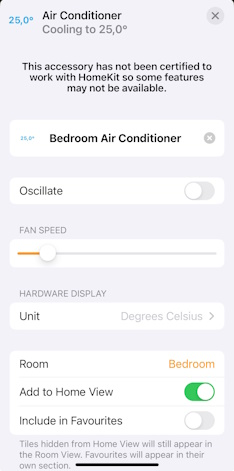
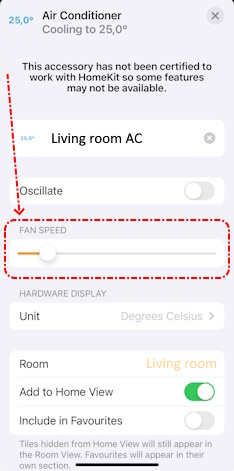
Document features of version 2.2.0

diff --git a/README.md b/README.md
@@ -13,19 +13,21 @@
 
 [Homebridge GREE Air Conditioner Platform Plugin](https://github.com/eibenp/homebridge-gree-airconditioner) is a dynamic platform plugin for [Homebridge](https://github.com/homebridge/homebridge) which allows control of GREE Air Conditioner devices from [Apple's Home App](https://www.apple.com/home-app/). (Makes GREE Air Conditioners HomeKit compatible.)
 
-The plugin finds and adds all GREE Air Conditioner devices to the Home App automatically if they are located on the same subnet as Homebridge. In most cases only a minimal configuration is required. If default configuration is not appropriate the parameters can be customized. To customize a device you have to specify it's MAC address. Each device appears in the Home App as a Heater Cooler device. It is also possible to add a separate Temperature Sensor (if temperature sensor is supported by the physical device). This allows to define automations (e.g. turn on) based on current temperature in the room. _Be careful, if the device does not support internal temperature sensor but is added as a separate accessory, Home App will use the target temperature not the measured one._ Child accessory does not appear in Home App if physical sensor is not available in the AC unit.
+The plugin finds and adds all GREE Air Conditioner devices to the Home App automatically if they are located on the same subnet as Homebridge. In most cases only a minimal configuration is required. If default configuration is not appropriate, then the parameters can be customized. To set some parameters to a custom value assigned to all devices, a special device has to be added to the configuration with MAC address set to 'default'. To customize a specific device you have to specify it's MAC address. Device specific parameters override the default parameters. Each Air Conditioner device appears in the Home App as a Heater Cooler device (and a Fan device if fan control is enabled). It is also possible to add a separate Temperature Sensor accessory to Home App (if temperature sensor is supported by the physical device). This allows to define automations (e.g. turn on) based on current temperature in the room. _Be careful, if the device does not support internal temperature sensor but is added as a separate accessory, Home App will use the target temperature not the measured one._ Child accessory does not appear in Home App if physical sensor is not available in the AC unit.
 
-Quiet / Auto / Powerful mode is supported by the fan speed control. Zero means off. Minimum value turns on Quiet mode. Next value is Auto mode. Maximum value is Powerful mode. All other values between them are exact fan speeds (Low, MediumLow**, Medium, MediumHigh**, High)
+Quiet / Auto / Powerful mode is supported by the fan speed control. In Heater Cooler accessory zero fan speed means off. Minimum value turns on Quiet mode. Next value is Auto mode. Maximum value is Powerful mode. All other values between them are exact fan speeds (Low, MediumLow**, Medium, MediumHigh**, High) Quiet and Powerful modes are unsupported in Auto mode. If these speed modes are selected in Home App then the device will fix the incorrect settings and the Home App's speed control will be automatically adjusted to the nearest supported value.
+
+Optional fan accessory has it's own speed control. It displays fan speed as a percentage value, but the percentage displayed in the Home App is not related to the actual fan speed percentage of the AC device. (GREE Air Conditioners do not support controlling the fan speed by percentage.) Fan accessory's zero fan speed means off. Quiet mode and Powerful mode are not supported by Air Conditioner devices in fan mode. Fan accessory's maximum value (100%) means Auto mode. All other values between 0% and 100% are exact fan speeds (Low, MediumLow**, Medium, MediumHigh**, High). The actual percentage values of the Home App fan accessory is based on the AC device type (3- or 5-speed model).
 
 (**) these values are supported only on 5-speed models
 
-Devices are identified by MAC Address (Serial Number). It can be queried using the official [GREE+ mobile app](https://apps.apple.com/us/app/gree/id1167857672). (The app is required to connect the devices to the local WiFi network for the first time.) If you want to customize a device (e.g. set a custom name) then you have to add it to the configuration and specify it's MAC address. Adding a device located on a different subnet also requires to add the device to the configuration and specify the MAC address and the IP address. To skip a device from Home App also requires to add it's MAC address to the configuration and set the "disabled" parameter to true. Some parameters are changeable only by disabling and re-enabling the device because they are read by Home App only once. _(These parameters are discussed later.)_
+Devices are identified by MAC Address (Serial Number). It can be queried using the official [GREE+ mobile app](https://apps.apple.com/us/app/gree/id1167857672). (The app is required to connect the devices to the local WiFi network for the first time.) If you want to customize a device (e.g. set a custom name) then you have to add it to the configuration and specify it's MAC address. Adding a device located on a different subnet also requires to add the device to the configuration and specify the MAC address and the IP address. To skip a device from Home App also requires to add it's MAC address to the configuration and set the "disabled" parameter to true. Some parameters are changeable only by disabling and re-enabling the device because they are read by Home App only once. _(These parameters are discussed later.)_ To customize all devices on the same way, a special device has to be added to the configuration. This special device must have the MAC address parameter set to "default". Parameters of devices identified by exact MAC addresses take precedence over parameters set by the "default" device.
 
 xFan function is supported, but it works automatically if enabled in Homebridge configuration. If xFan is enabled for the device, it is automatically turned on when you select a supported operating mode in Home App. If xFan is disabled, the Home App will not modify its actual setting in any case.
 
 Temperature display units of the physical device can be controlled using the Home App. (Configuration settings are required to be specified always in Degrees Celsius, independently from the display units.)
 
-Vertical swing mode can be turned on/off, but special swing settings can't be controlled using the Home App. If device default vertical swing position is not acceptable in disabled swing mode, it can be overridden to a pre selected position by configuration settings. (Only default position is overridden when this feature is enabled. Other positions selected by remote control are kept and not modified by Home App. The AC unit may keep the actual vertical swing position on turning off oscillation in Home App.)
+Vertical swing mode can be turned on/off, but special swing settings can't be controlled using the Home App. If device default vertical swing position is not acceptable when oscillation is disabled, it can be overridden to a pre selected position by configuration settings. (Only default position is overridden when this feature is enabled. Other positions selected by remote control are kept and not modified by Home App.)
 
 This plugin is designed to be as simple and clear as possible and supports primarily the functions of the Home App's Heater Cooler accessory.
 
@@ -46,16 +48,19 @@ This is not plugin dependency but its good to know that Homebridge server host a
 * May work with other GREE compatible AC units (e.g. Sinclair)
     * Successfully tested with Sinclair SIH-13BITW
  
-> If you get _"error:1C80006B:Provider routines::wrong final block length"_ error message then your device is not supported.
+> If you get _"error:1C80006B:Provider routines::wrong final block length"_ error message then your device is not supported or incorrect encryption version is selected.
 >
 > If you get _"Error: Device is not bound ..."_ error message then your device may not be supported. (The same error occures when device is malfunctioning but if turning the power supply off and on does not solve the problem then your device is not supported.)
+
+It is not recommended to use Home App and the Official GREE+ or Ewpe Smart mobile apps side by side. In some cases the mobile apps can set the Air Conditioner device into a restricted state where Homebridge can't bind the plugin to the device because the device does not respond on device query requests which are required to initalize the plugin. It is highly recommended to use the mobile app only for the initial setup of the air conditioner, and later it is fine to use only the Home App and the physical remote control for everyday tasks. (Usually when the AC device is not responding to the Homebridge plugin but is communicating fine with the mobile app, then power cycling the AC device resolves the problem.)
 
 By default this plugin tries to auto detect the network protocol encryption version. If not the right version is selected there can get errors and the AC device will not correctly work. It is possible to force a network protocol encryption version in configuration file. If auto detection does not work then it is recommended to try all possible values to check if the device is compatible or not.
 
 ## Known limitations
 
 This plugin was designed to support the Home App's Heater Cooler functionality using GREE Air Conditioners. Some special features of GREE AC's are not supported natively by Apple and also dismiss support in this plugin.
-* Fan and dry modes are not supported. They may work if set directly on the device until you change operating mode. They can't be turned on using Home App.
+* Fan mode is supported by an additional Fan control accessory in Home App. Using this Fan control is optional. If Fan control is disabled, the Home App sees the AC device operating in fan mode as off. The Heater Cooler accessory and the Fan accessory cannot be active at the same time. The Heater Cooler accessory is always inactive if the AC device is operating in fan mode, and the Fan accessory is always inactive if the AC device is operating in heating or cooling mode.
+* Dry mode is not supported. The Home App sees the AC device operating in dry mode as off.
 * Lights of the AC unit can't be controlled.
 * Additional device functions (e.g. health mode, sleep, SE) are not supported.
 * Horizontal swing control is not supported, it remains the same as set directly on the device.
@@ -72,17 +77,20 @@ Command line install:
 ```
 npm install homebridge-gree-ac -g
 ```
-If successfully installed and configured, your devices will appear on the Homebridge GUI Accessories page and also in Home App (if Homebridge is already connected to the Home App). (If the additional temperature sensor is enabled, then 2 items will be displayed for supported devices (Heater Cooler and Temperature Sensor).)
+If successfully installed and configured, your devices will appear on the Homebridge GUI Accessories page and also in Home App (if Homebridge is already connected to the Home App). (If the additional temperature sensor is enabled, then 2 items will be displayed for supported devices (Heater Cooler and Temperature Sensor). If Fan control is enabled, then an additional Fan accessory is also displayed in Home App.)
 
 ## Upgrade
 
 Always check out your current settings in Homebridge and also in Home App (including scenes and automation rules) before you start an upgrade!
 
-### Any version to v2.1.7
+### Any version to v2.1.7 - v2.2.0
 
-The upgrade is automatic by installing the latest version. If upgrading from v2.1.6 no configuration changes are needed. Please see the following upgrade sections if upgrading from an earlier version.
+The upgrade is automatic by installing the latest version. If upgrading from v2.1.6 or later no configuration changes are needed to continue the use of the plugin with original settings. Please see the following upgrade sections if upgrading from an earlier version.
 
-**Important change: All devices are automatically added to Home App if they are not listed and disabled in configuration and they are located on the same subnet.** Earlier versions skipped the devices which were not found in configuration file.
+Fan mode support is new in version v2.2.0. It is disabled by default. To enable it the "fanControlEnabled" parameter must be set in configuration file.
+In v2.2.0 it is also possible to set default customized parameters for multiple devices by adding a special device with MAC address set to 'default'. To use this feature it is required to update the plugin's configuration.
+
+**Important change: All devices are automatically added to the Home App if they are not listed and disabled in configuration and they are located on the same subnet.** Earlier versions skipped the devices which were not found in configuration file.
 
 ### v2.1.2 - v2.1.5 to v2.1.6
 
@@ -151,6 +159,8 @@ The upgrade is automatic by installing the latest version but configuration sett
   - Restart Homebridge
   - If any device was disabled and re-enabled in previous steps then recreate automations _(automations are lost when you disable a device)_
 
+Some new parameters were introduced in version v2.2.0. They have to be added to configuration if the new features should be turned on.
+
 ### v1.x.x to v2.0.0 or later
 
 There is no clean way to update the plugin to release v2.0.0 or later if you are using an older version (v1.x.x). You need to remove and reinstall the plugin during upgrade.
@@ -183,11 +193,57 @@ Minimal configuration requires no special knowledge and uses default values for 
 * name - Unique name of the platform plugin
 * platform - **GREEAirConditioner** (fixed name, it identifies the plugin)
 
-Minimal configuration is appropriate for 5-speed models. Device names are read from the AC units (usually the MAC address or part of the MAC address). Target temperature can be set between 16 and 30 °C. The temperature display units settings are read from the UI settings (or using Fahrenheit if not set in UI configuration). Target temperature step size is set to 0.5 in Fahrenheit mode and 1 in Celsius mode. xFan function is enabled. No other special features (e.g. additional temperature sensor) are enabled.
+Minimal configuration is appropriate for 5-speed models. Device names are read from the AC units (usually the MAC address or part of the MAC address). Target temperature can be set between 16 and 30 °C. The temperature display units settings are read from the UI settings (or using Fahrenheit if not set in UI configuration). Target temperature step size is set to 0.5 in Fahrenheit mode and 1 in Celsius mode. xFan function is enabled. No other special features (e.g. additional temperature sensor, fan mode support) are enabled.
 
 Minimal configuration:
 
 ![Homebridge UI](./uiconfigmin.jpg)
+
+### Customized default parameters
+
+It is possible to set some or all parameters to a customized value which is assigned to each device which does not override the parameter. This functionality requires a custom device with MAC address set to 'default'.
+
+```
+    "platforms": [
+        {
+            "name": "Gree Air Conditioner",
+            "platform": "GREEAirConditioner",
+            "devices": [
+                {
+                    "mac": "default",
+                    "statusUpdateInterval": 10,
+                    "encryptionVersion": 0,
+                    "model": "Pulse 3.2kW GWH12AGB-K6DNA1A/I",
+                    "speedSteps": 5,
+                    "minimumTargetTemperature": 16,
+                    "maximumTargetTemperature": 30,
+                    "sensorOffset": 40,
+                    "temperatureStepSize": 1,
+                    "temperatureSensor": "disabled",
+                    "xFanEnabled": true,
+                    "overrideDefaultVerticalSwing": 0,
+                    "defaultVerticalSwing": 0,
+                    "fanControlEnabled": false,
+                    "disabled": false
+                }
+            ]
+        }
+    ]
+```
+
+* mac - this parameter has a special fixed value 'default' if you want to customize parameters to be assigned to multiple devices
+* disabled - if set to 'true' then no parameters are read from the configuration as customized defaults
+
+See the [Full configuration section](#full-configuration) for more information about the parameters!
+
+The following parameters are ignored in 'default' device entry:
+- name
+- ip
+- port
+
+![Homebridge UI](./uiconfigcustdef.jpg)
+
+You can always override any default parameter by adding a device identified by MAC address.
 
 ### Full configuration
 
@@ -216,6 +272,7 @@ Minimal configuration:
                     "xFanEnabled": true,
                     "overrideDefaultVerticalSwing": 0,
                     "defaultVerticalSwing": 0,
+                    "fanControlEnabled": false,
                     "disabled": false
                 }
             ]
@@ -224,30 +281,31 @@ Minimal configuration:
 ```
 _It's not recommended to add the port and ip parameters. The above example contains them but only for showing all optional parameters also._
 
-* name - Unique name of the platform plugin
-* platform - **GREEAirConditioner** (fixed name, it identifies the plugin)
-* port - free UDP port (optional) (plugin will use this port for network communication; valid values: 1025 - 65535) **Do not specify a port unless you have trouble with automatic port assignment!**
-* scanInterval - time period in seconds between device query retries (defaults to 60 sec if missing)
-* devices - devices should be listed in this block (specify as many devices as you want to customize or disable)
-  * mac - MAC address (Serial Number) of the device (required to identify the device, also if only one device exists)
-  * name* - custom name of the device (optional) Please use only alphanumeric, space, and apostrophe characters. Ensure it starts and ends with an alphabetic or numeric character, and avoid emojis. (The name is changeable in Home App and any changes made in Home App are kept until the device is disabled which removes it from Home App.)
-  * ip - device IP address (optional) Address is auto detected if this parameter is missing. **Specify only if device is located on a different subnet then homebridge!**
-  * port - free UDP port (optional) (plugin will listen on this port for data received from the device; valid values: 1025 - 65535) **Do not specify a port unless you have trouble with automatic port assignment!**
-  * statusUpdateInterval - device status will be refreshed based on this interval (in seconds, default is 10 seconds)
-  * encryptionVersion - Auto (0) is fine for most AC units. If auto does not work then you can force v1 (1) or v2 (2) encryption version to use in network communication
-  * model* - model name, information only (optional)
-  * speedSteps* - fan speed steps of the unit (valid values are: 3 and 5)
-  * minimumTargetTemperature* - minimum target temperature accepted by the device (default is 16 °C, must be specified in °C, valid values: 8-30, values less than 16 work only in heating mode and on selected models only)
-  * maximumTargetTemperature* - maximum target temperature accepted by the device (default is 30 °C, must be specified in °C, valid values: 8-30, values less than 16 work only in heating mode and on selected models only)
-  * sensorOffset - device temperature sensor offset value for current temperature calibration (default is 40 °C, must be specified in °C)
-  * temperatureStepSize* - numeric parameter, valid values: 0.5 and 1 (if missing then default value is based on the UI configuration: 0.5 if UI is set to Fahrenheit temperature units and 1 if UI is set to Celsius temperature units) Controls the acceptable temperature values in Home App (It is recommended to set it to 1 if Celsius display mode is used on the AC unit and 0.5 in Fahrenheit display mode.)
-  * temperatureSensor - controls additional temperature sensor accessory in Home App (disabled = do not add to Home App / child = add as a child accessory / separate = add as a separate (independent) accessory)
-  * xFanEnabled - automatically turn on xFan functionality in supported device modes (xFan actual setting is not modified by the Home App if disabled)
-  * overrideDefaultVerticalSwing - by default this plugin does not change the vertical swing position of the AC unit but some devices do not keep the original vertical position set by the remote control if controlled from Homebridge and return back to device default position; this setting allows to override the default position -> if AC unit is set to default vertical swing position Homebridge modifies it to a predefined position (set by defaultVerticalSwing) (Never (0) = turn off override, let device use default / After power on (1) = override default position on each power on / After power on and swing disable (2) = override default position on each power on and each time when swing is switched to disabled)
-  * defaultVerticalSwing - specify the vertical swing position to be used instead of device default when overriding is enabled (Device default (0) = use device default, same position as used by device by default without overriding / one of the following 5 positions: fixed Highest (2), fixed Higher (3), fixed Middle (4), fixed Lower (5), fixed Lowest (6))
-  * disabled - set to true if you do not want to control this device in the Home App _(can be used also to temporarily remove the device from Home App but not if the device is not responding any more on the network)_
+* **name** - Unique name of the platform plugin
+* **platform** - **GREEAirConditioner** (fixed name, it identifies the plugin)
+* **port** - free UDP port (optional) (plugin will use this port for network communication; valid values: 1025 - 65535) **Do not specify a port unless you have trouble with automatic port assignment!**
+* **scanInterval** - time period in seconds between device query retries (defaults to 60 sec if missing)
+* **devices** - devices should be listed in this block (specify as many devices as you want to customize or disable)
+  * **mac** - MAC address (Serial Number) of the device (required to identify the device, also if only one device exists) Use the 'default' keyword instead of the MAC address to define default configuration for multiple devices. **Must be unique across all devices!**
+  * **name*** - custom name of the device (optional) Please use only alphanumeric, space, and apostrophe characters. Ensure it starts and ends with an alphabetic or numeric character, and avoid emojis. (The name is changeable in Home App and any changes made in Home App are kept until the device is disabled which removes it from Home App.)
+  * **ip** - device IP address (optional) Address is auto detected if this parameter is missing. **Specify only if device is located on a different subnet than homebridge!**
+  * **port** - free UDP port (optional) (plugin will listen on this port for data received from the device; valid values: 1025 - 65535) **Do not specify a port unless you have trouble with automatic port assignment!**
+  * **statusUpdateInterval** - device status will be refreshed based on this interval (in seconds, default is 10 seconds)
+  * **encryptionVersion** - Auto (0) is fine for most AC units. If auto does not work then you can force v1 (1) or v2 (2) encryption version to use in network communication
+  * **model*** - model name, information only (optional)
+  * **speedSteps*** - fan speed steps of the unit (valid values are: 3 and 5)
+  * **minimumTargetTemperature*** - minimum target temperature accepted by the device (default is 16 °C, must be specified in °C, valid values: 8-30, values less than 16 work only in heating mode and on selected models only)
+  * **maximumTargetTemperature*** - maximum target temperature accepted by the device (default is 30 °C, must be specified in °C, valid values: 8-30, values less than 16 work only in heating mode and on selected models only)
+  * **sensorOffset** - device temperature sensor offset value for current temperature calibration (default is 40 °C, must be specified in °C)
+  * **temperatureStepSize*** - numeric parameter, valid values: 0.5 and 1 (if missing then default value is based on the UI configuration: 0.5 if UI is set to Fahrenheit temperature units and 1 if UI is set to Celsius temperature units) Controls the acceptable temperature values in Home App (It is recommended to set it to 1 if Celsius display mode is used on the AC unit and 0.5 in Fahrenheit display mode.)
+  * **temperatureSensor** - controls additional temperature sensor accessory in Home App (disabled = do not add to Home App / child = add as a child accessory / separate = add as a separate (independent) accessory) _Only independent accessories can be used by automations to control other accessories._
+  * **xFanEnabled** - automatically turn on xFan functionality in supported device modes (xFan actual setting is not modified by the Home App if disabled)
+  * **overrideDefaultVerticalSwing** - by default this plugin sets the vertical swing position to the default position of the AC device when oscillation is turned off; this parameter allows the plugin to override the default position (the actual position is controlled by the "defaultVerticalSwing" parameter); valid values: Never (0) = turn off override, let device use default / After power on (1) = override the default position each time the device is powered on / After power on and swing disable (2) = override the default position each time the device is powered on and when oscillation is turned off (by the Home App)
+  * **defaultVerticalSwing** - specify the vertical swing position to be used instead of device default when overriding is enabled (Device default (0) = use device default, same position as used by device by default without overriding / one of the following 5 positions: fixed Highest (2), fixed Higher (3), fixed Middle (4), fixed Lower (5), fixed Lowest (6)) _(Only the default position is changing to the selected one when turning on the device. All other positions are kept by the Home App. Turning off oscillation sets the selected fixed position.)_
+  * **fanControlEnabled** - by default fan mode is not supported by the plugin because Apple's Heater Cooler accessory does not support fan mode; setting this parameter to true adds an additional Fan accessory to the Home App and turns on fan mode support in the plugin
+  * **disabled** - set to true if you do not want to control this device in the Home App _(can be used also to temporarily remove the device from Home App but not if the device is not responding on the network any more)_
 
-(*) these parameters are initalized only once on device enable; device must be disabled an re-enabled to apply a new value
+(*) these parameters are initalized only once on device enable; device must be disabled an re-enabled to apply a new value; name is customizable in Home App independently from Homebridge settings
 
 Recommended customized configuration:
 
@@ -270,12 +328,18 @@ If you are not familiar with the GREE+ mobile app there is an alternative method
 - (Re)start Homebridge
 - GREE Air Conditioner Platform Plugin will auto detect all accessible devices and write an entry to the log
 
-Unfortunaltely if you have multiple devices you will not know which MAC address belongs to which AC unit. In this case you have to test it. This may require some adding - removal - re-adding cycle before final configuration if default configuration is not appropriate.
+E.g.:
+
+> [2025. 01. 05. 22:48:52] [Gree Air Conditioner] [c6000000 -- 192.168.1.2] Device is bound -> 502cc6000000
+
+The MAC address is visible at the end of the "Device is bound" entry. 502cc6000000 in the above example.
+
+Unfortunaltely if you have multiple devices you will not know which MAC address belongs to which AC unit. In this case you have to test it. This may require some adding - removal - re-adding cycle before final configuration if default or customized default configuration is not appropriate.
 
 ### Device settings
 
 Some settings are initialized by Home App only once (when enabling the device). They can only be changed by disabling and re-enabling the device. The following settings are affected:
-* name
+* name*
 * model
 * speedSteps
 * minimumTargetTemperature
@@ -284,13 +348,15 @@ Some settings are initialized by Home App only once (when enabling the device). 
 
 Changes of the above parameters are ignored until the device is disabled and re-enabled.
 
+(*) name can be customized and changed in Home App any time independently from Homebridge settings
+
 All other settings are applied when starting up Homebridge. You have to restart Homebridge to apply changes in configuration settings.
 
-__Keep in mind that disabling the device breaks all associated automations in Home App.__
+_Keep in mind that disabling the device breaks all associated automations in Home App._
 
 ### IP address
 
-IP addresses of the AC units are determined automatically by the plugin. However this auto detection works only if the AC unit is on the same subnet as homebridge. There is an optional IP address parameter which can be used to specifiy the unit's IP address if it is on a different subnet. (Routing should be correctly set up to communicate with units on different subnets.)
+IP addresses of the AC units are determined automatically by the plugin. However this auto detection works only if the AC unit is on the same subnet as homebridge. There is an optional IP address parameter which can be used to specifiy the unit's IP address if it is on a different subnet. _(Routing should be correctly set up to communicate with units on different subnets.)_
 
 ### Port
 
@@ -305,7 +371,7 @@ All ports are set up automatically by default. In some cases auto detection is n
 
 Home App allows to set the device temperature display units but it is independent from the temperature units shown in Home App. Home App always displays temperature values as specified by iOS/iPadOS/MacOS (can be changed in Preferences / Regional settings section). Display unit conversion is made by the Home App device (e.g. iPhone).
 
-GREE Air Conditioners do not support displaying decimals of temperature values. If you normally use the AC unit in Celsius display mode then it is recommended to use also the Home App device (e.g. iPhone) in Celsius mode and set the temperatureStepSize parameter to 1. Fahrenheit mode recommends the same consistency (Fahrenheit mode on both sides and temperatureStepSize parameter set to 0.5) This helps to avoid displaying inconsistent values on the connected devices. In minimal configuration - when the device is not listed in the configuration file - the temperatureStepSize parameter is based on the Homebridge UI configuration (temperature units parameter).
+GREE Air Conditioners do not support displaying decimals of temperature values. If you normally use the AC unit in Celsius display mode then it is recommended to use also the Home App device (e.g. iPhone) in Celsius mode and set the "temperatureStepSize" parameter to 1. Fahrenheit mode recommends the same consistency (Fahrenheit mode on both sides and "temperatureStepSize" parameter set to 0.5) This helps to avoid displaying inconsistent values on the connected devices. In minimal configuration - when the device is not listed in the configuration file - the "temperatureStepSize" parameter is based on the Homebridge UI configuration (temperature units parameter). This is also true for all configurations where "temperatureStepSize" parameter is not specified in the configuration file.
 
 ### Temperature measurement
 
@@ -317,13 +383,25 @@ Some AC units have a built-in temperature sensor but the actual room temperature
 
 ### Fan speed
 
+#### Fan speed in heating or cooling mode
+
 Fan speed is adjustable on the Heater Cooler's settings page in Home App. There is a gear icon in the buttom right corner of the Heater Cooler page if it was opened from the Home App (gear icon is missing if opened from control center or home view of control center). This gear icon can be used to access settings (and fan speed).
 
 ![Home App Heater Cooler settings](./ha_settings.jpg)
 
-Slider description: Zero means off. Minimum value turns on Quiet mode. Next value is Auto mode. Maximum value is Powerful mode. All other values between them are exact fan speeds (Low, MediumLow**, Medium, MediumHigh**, High)
+Slider description: Zero means off. Minimum value turns on Quiet mode. Next value is Auto mode. Maximum value is Powerful mode. All other values between them are exact fan speeds (Low, MediumLow**, Medium, MediumHigh**, High) Quiet and Powerful modes are unsupported in Auto mode. If these speed modes are selected in Home App then the device will fix the incorrect settings and the Home App's speed control will be automatically adjusted to the nearest supported value.
 
 (**) these values are supported only on 5-speed models
+
+#### Fan speed in fan mode
+
+Fan speed in fan mode is adjustable directly by the Fan accessory in Home App. It displays fan speed as a percentage value, but the percentage displayed in the Home App is not related to the actual fan speed percentage of the AC device. (GREE Air Conditioners do not support controlling the fan speed by percentage.) Fan accessory's zero fan speed means off. Quiet mode and Powerful mode are not supported by Air Conditioner devices in fan mode. Fan accessory's maximum value (100%) means Auto mode. All other values between 0% and 100% are exact fan speeds (Low, MediumLow**, Medium, MediumHigh**, High). The actual percentage values of the Home App fan accessory is based on the AC device type (3- or 5-speed model).
+
+(**) these values are supported only on 5-speed models
+
+Fan mode active and speed set to auto:
+
+![Home App Fan](./ha_fan.jpg)
 
 ### Accessory removal
 
